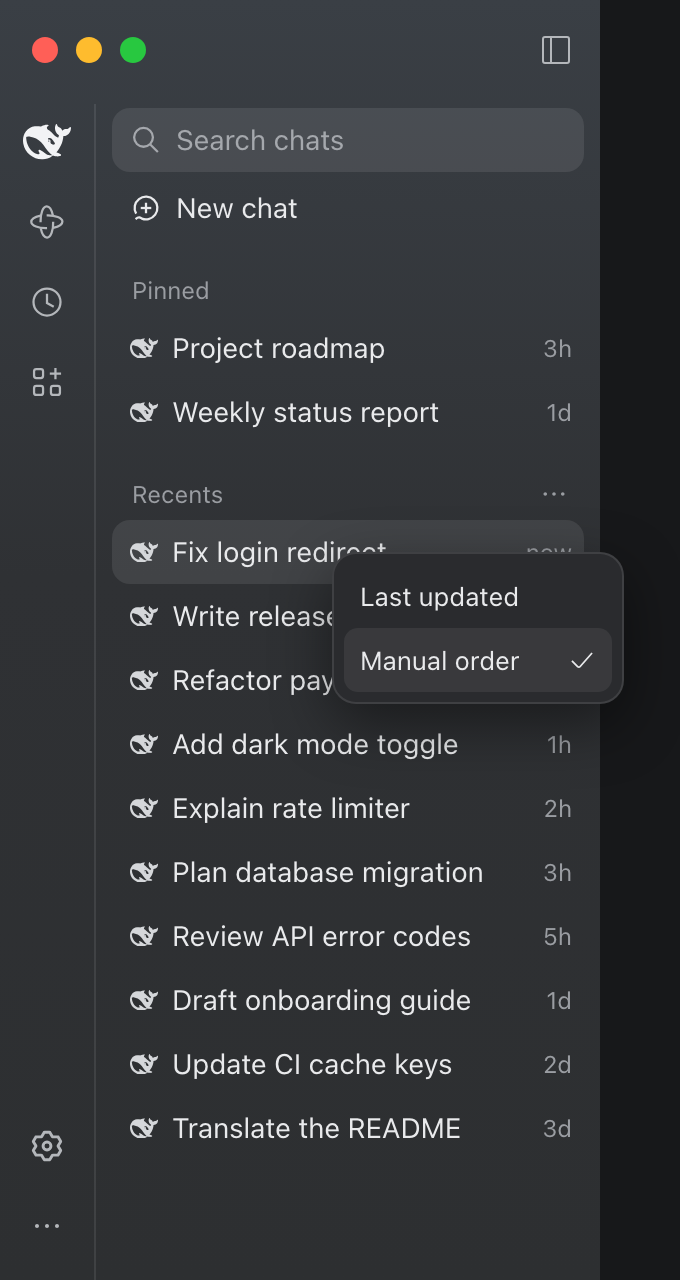
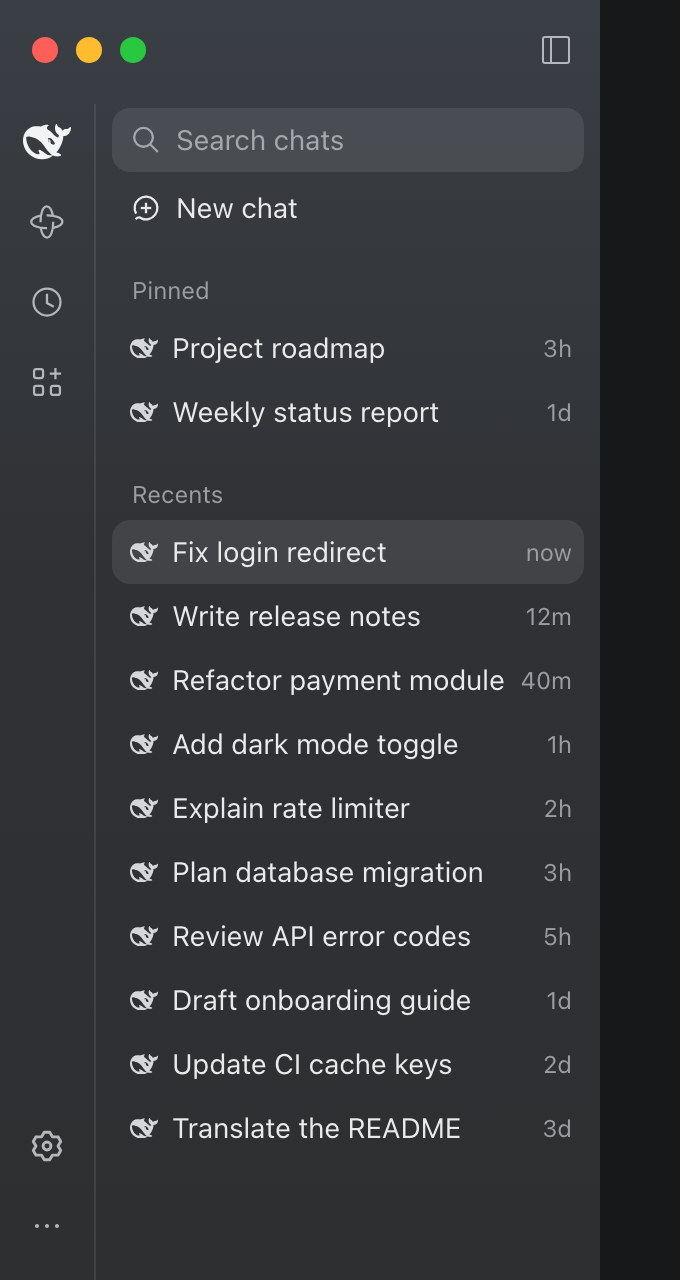
Remove the sort menu from the example image and credit Codex
The README now says that the design is inspired by the navigation
style of the Codex app.

diff --git a/README.md b/README.md
@@ -1,8 +1,8 @@
 # dsh-better-left-sidebar
 
-A [DeepSeek Harness](https://github.com/deepseek-ai/deepseek-harness) plugin that changes the left sidebar to a small icon rail and a large conversation column, with search, new chat, pinned and recents.
+A [DeepSeek Harness](https://github.com/deepseek-ai/deepseek-harness) plugin that changes the left sidebar to a small icon rail and a large conversation column, with search, new chat, pinned and recents. The design is inspired by the navigation style of the Codex app.
 
-<img src="docs/sidebar-example.png" alt="The sidebar with an icon rail, a search field, New chat, Pinned and Recents. The sort menu of Recents is open." width="340">
+<img src="docs/sidebar-example.png" alt="The sidebar with an icon rail, a search field, New chat, Pinned and Recents." width="340">
 
 The image is a mock-up with sample chats.
 
